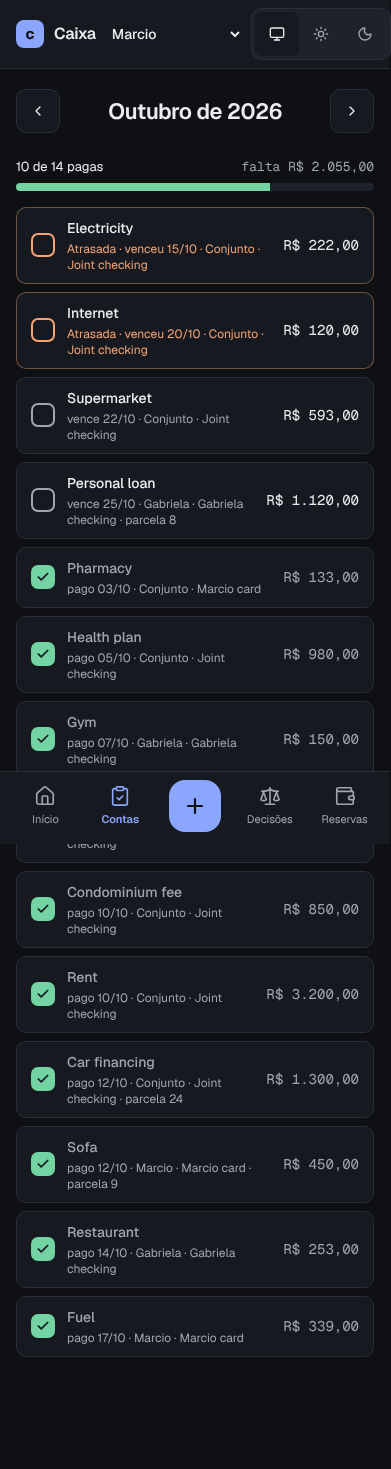
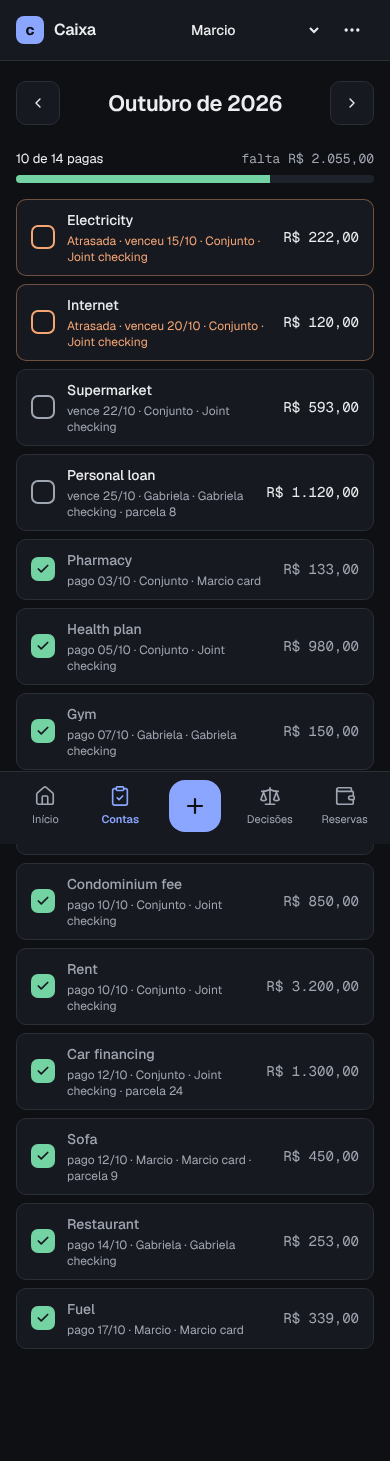
Q03: Mais menu in the mobile top bar reaches Lançamentos, Atividade and the theme switch
Claude-Session: https://claude.ai/code/session_01Behsygz4kyrBLoxpjjWtEd

diff --git a/web/src/shell/more-menu.tsx b/web/src/shell/more-menu.tsx
@@ -1,0 +1,55 @@
+import { Link } from '@tanstack/react-router'
+import { Ellipsis } from 'lucide-react'
+import { useEffect, useId, useRef, useState } from 'react'
+import { Button } from '../components/ui/button.tsx'
+import { ThemeSwitch } from '../theme/theme-switch.tsx'
+import { screens } from './nav.ts'
+
+const extras = screens.filter(({ tab }) => !tab)
+
+export const MoreMenu = () => {
+  const id = useId()
+  const [open, setOpen] = useState(false)
+  const root = useRef<HTMLDivElement>(null)
+  const toggle = useRef<HTMLButtonElement>(null)
+
+  useEffect(() => {
+    if (!open) return
+    const outside = (event: PointerEvent) => {
+      if (!root.current?.contains(event.target as Node)) setOpen(false)
+    }
+    const dismiss = (event: KeyboardEvent) => {
+      if (event.key !== 'Escape') return
+      setOpen(false)
+      toggle.current?.focus()
+    }
+    document.addEventListener('pointerdown', outside)
+    document.addEventListener('keydown', dismiss)
+    return () => {
+      document.removeEventListener('pointerdown', outside)
+      document.removeEventListener('keydown', dismiss)
+    }
+  }, [open])
+
+  return (
+    <div ref={root} className="relative">
+      <Button ref={toggle} variant="ghost" size="icon" className="aria-expanded:bg-sunken" aria-label="Mais" aria-expanded={open} aria-controls={open ? id : undefined} onClick={() => setOpen(!open)}>
+        <Ellipsis aria-hidden="true" className="size-5" />
+      </Button>
+      {open && (
+        <div id={id} className="absolute top-full right-0 z-20 mt-2 flex w-60 flex-col gap-3 rounded-card border bg-surface p-3">
+          <nav aria-label="Mais telas" className="flex flex-col gap-1">
+            {extras.map(({ path, title }) => (
+              <Link key={path} to={path} activeOptions={{ exact: true }} onClick={() => setOpen(false)} className="flex min-h-11 items-center rounded-control px-2.5 text-text data-[status=active]:bg-accent-soft data-[status=active]:font-semibold data-[status=active]:text-accent">
+                {title}
+              </Link>
+            ))}
+          </nav>
+          <div className="border-t pt-3">
+            <ThemeSwitch />
+          </div>
+        </div>
+      )}
+    </div>
+  )
+}

diff --git a/web/src/app.test.tsx b/web/src/app.test.tsx
@@ -90,3 +90,39 @@ test('answers unknown paths with a not found page', async () => {
   start('/nada')
   expect(await screen.findByText('Página não encontrada')).toBeTruthy()
 })
+
+test('every screen is a tab or an entry of the Mais menu', async () => {
+  const history = start('/decisoes?month=2026-10')
+  await screen.findByRole('heading', { level: 1, name: 'Decisões' })
+  const tabBar = screen.getAllByRole('navigation', { name: 'Principal' })[1] as HTMLElement
+  expect(within(tabBar).getAllByRole('link')).toHaveLength(5)
+  const more = screen.getByRole('button', { name: 'Mais' })
+  expect(more.getAttribute('aria-expanded')).toBe('false')
+  await userEvent.click(more)
+  const menu = screen.getByRole('navigation', { name: 'Mais telas' })
+  expect(
+    within(menu)
+      .getAllByRole('link')
+      .map((link) => link.textContent),
+  ).toEqual(['Lançamentos', 'Atividade'])
+  expect(screen.getAllByRole('group', { name: 'Tema' })).toHaveLength(2)
+  const reachable = [...within(tabBar).getAllByRole('link'), ...within(menu).getAllByRole('link')].map((link) => new URL(link.getAttribute('href') ?? '', 'http://x').pathname)
+  expect([...new Set(reachable)].sort()).toEqual(['/', '/atividade', '/contas', '/decisoes', '/lancamentos', '/patrimonio'])
+  await userEvent.click(within(menu).getByRole('link', { name: 'Atividade' }))
+  await screen.findByRole('heading', { level: 1, name: 'Atividade' })
+  expect(history.location.search).toContain('month=2026-10')
+  expect(screen.queryByRole('navigation', { name: 'Mais telas' })).toBeNull()
+})
+
+test('the Mais menu closes on Escape and on a tap outside', async () => {
+  start('/decisoes')
+  await screen.findByRole('heading', { level: 1, name: 'Decisões' })
+  const more = screen.getByRole('button', { name: 'Mais' })
+  await userEvent.click(more)
+  await userEvent.keyboard('{Escape}')
+  expect(screen.queryByRole('navigation', { name: 'Mais telas' })).toBeNull()
+  expect(document.activeElement).toBe(more)
+  await userEvent.click(more)
+  await userEvent.click(screen.getByRole('heading', { level: 1, name: 'Decisões' }))
+  expect(screen.queryByRole('navigation', { name: 'Mais telas' })).toBeNull()
+})

diff --git a/web/e2e/more.spec.ts b/web/e2e/more.spec.ts
@@ -1,0 +1,23 @@
+import AxeBuilder from '@axe-core/playwright'
+import { expect, test } from '@playwright/test'
+
+for (const theme of ['light', 'dark'] as const)
+  test(`more menu reaches every extra screen in two taps 390 ${theme}`, async ({ browser }) => {
+    const context = await browser.newContext({ viewport: { width: 390, height: 844 }, colorScheme: theme, locale: 'pt-BR', timezoneId: 'America/Sao_Paulo' })
+    await context.addInitScript(() => localStorage.setItem('finance.member', 'Marcio'))
+    const page = await context.newPage()
+    await page.goto('/decisoes')
+    await expect(page.getByRole('heading', { level: 1, name: 'Decisões' })).toBeVisible()
+    await expect(page.locator('[aria-busy="true"]')).toHaveCount(0)
+    await page.getByRole('button', { name: 'Mais' }).click()
+    const menu = page.getByRole('navigation', { name: 'Mais telas' })
+    await expect(menu.getByRole('link')).toHaveText(['Lançamentos', 'Atividade'])
+    const { violations } = await new AxeBuilder({ page }).withTags(['wcag2a', 'wcag2aa', 'wcag21a', 'wcag21aa']).analyze()
+    expect(violations.map(({ id, nodes }) => ({ id, targets: nodes.map((node) => node.target.join(' ')) }))).toEqual([])
+    await page.evaluate(() => document.fonts.ready)
+    await page.screenshot({ path: `screenshots/more-390-${theme}.png` })
+    await menu.getByRole('link', { name: 'Atividade' }).click()
+    await expect(page.getByRole('heading', { level: 1, name: 'Atividade' })).toBeVisible()
+    await expect(menu).toHaveCount(0)
+    await context.close()
+  })

diff --git a/web/src/shell/top-bar.tsx b/web/src/shell/top-bar.tsx
@@ -1,13 +1,13 @@
-import { ThemeSwitch } from '../theme/theme-switch.tsx'
 import { Brand } from './brand.tsx'
 import { IdentityPicker } from './identity-picker.tsx'
+import { MoreMenu } from './more-menu.tsx'
 
 export const TopBar = () => (
   <header className="flex items-center gap-3 border-b bg-surface px-4 py-2 md:hidden">
     <Brand />
     <div className="ml-auto flex items-center gap-2">
       <IdentityPicker compact />
-      <ThemeSwitch />
+      <MoreMenu />
     </div>
   </header>
 )

diff --git a/MEMORY.md b/MEMORY.md
@@ -4,13 +4,12 @@
 
 - No `add_repo`/`register_repo_root` tools in these runs (ToolSearch finds neither). The repo already exists at /home/claude/finance: `git fetch origin && git checkout -B poc origin/poc`
 - Node 22 is preinstalled: `npm i -g node@24` then `hash -r` (about a minute; 24.22.0 on 2026-10-20)
-- PostgreSQL 16: `pg_ctlcluster 16 main start`, then `su postgres -c "psql -c \"alter user postgres password 'local'\""`, then `cp .env.example .env` (gitignored)
-- Run setup commands one per Bash call; long chained commands were refused by the classifier
-- `npm ci` then `npm run db:reset` and `npm run db:seed`; baseline is 141 node tests plus 107 web (Vitest) tests plus 58 Playwright; seed has 189 entries and `db:seed` also plants 4 decisions (`seedDecisions`, not in `seed()`, L73)
+- Run setup commands one per Bash call. PostgreSQL 16: `pg_ctlcluster 16 main start`, then `su postgres -c "psql -c \"alter user postgres password 'local'\""`, then `cp .env.example .env` (gitignored)
+- `npm ci` then `npm run db:reset` and `npm run db:seed`; baseline is 141 node tests plus 109 web (Vitest) tests plus 60 Playwright; seed has 189 entries and `db:seed` also plants 4 decisions (`seedDecisions`, not in `seed()`, L73)
 - `curl` to local servers needs `--noproxy '*'` (the agent proxy answers 404 otherwise); stop servers by pid, `pkill -f` matched the calling shell and killed the call
 - Web deps install with `npm i -w web ...` (add `-S` for runtime deps: a first `-w` install put react as a peer only); root scripts forwarding to the workspace need a trailing `--` or npm swallows flags
 - Single test file: `timeout 200 node --env-file=.env --test test/mcp/demo.test.ts` (capture to a log file and read the tail; piping through grep printed nothing once)
-- Use `./node_modules/.bin/biome`, not `npx biome` (npx stalled 3 minutes). `tsconfig` has `erasableSyntaxOnly` (no parameter properties, enums, namespaces). `biome check --write <paths>` fixes import order; `biome ci` rejects `!` non-null assertions in tests (use `assert.ok` to narrow); check exit codes from a log file, never through `| tail` (a run once pushed with `biome ci` red)
+- Use `./node_modules/.bin/biome`, not `npx biome` (npx stalled 3 minutes). `tsconfig` has `erasableSyntaxOnly` (no parameter properties, enums, namespaces). `biome check --write <paths>` fixes import order; `biome ci` rejects `!` non-null assertions in tests (use `assert.ok` to narrow); check exit codes from a log file, never through `| tail` (a run once pushed with `biome ci` red); `noShadowRestrictedNames` rejects locals named like globals (`escape`)
 
 ## Decisions taken so far (for the author to review)
 
@@ -42,6 +41,7 @@
 - W03: settlement counts only paid joint expenses on member-owned accounts (Needs author); the seed has none, so split is empty over the seed (L44). Audit `next` is a string cursor (bigint would become money via `toJson`); counts ignore the author filter and cursor so filter chips keep their numbers
 - W11: `/atividade` in `web/src/activity/` (`describe.ts` shared with the overview card); chips count from a separate `['audit','counts']` query (`limit=1`, unscoped) because API counts are scoped by `member`; member chip = `author=member&member=X`; timeline is `useInfiniteQuery` keyed `['audit','timeline',filter]`. `memberCounts` in `GET /api/audit`. Tests avoid the clock with 2025 dates and regex day names
 - W12c budget (`npx playwright test -g budget`, preview gzips, SW blocked): overview first load 390 = 129 kB JS gzip, 1440 = 211 kB, fonts 53 kB, FCP/LCP about 0.3–0.4 s locally; precache 30 entries / 964 KiB (latin Geist only via `globPatterns`). Limits live at the top of `web/e2e/budget.spec.ts`; the build has no visualizer, use `vite build --sourcemap --outDir /tmp/x` and sum `sourcesContent` per package
+- Q03: mobile top bar is brand, compact identity picker and the `MoreMenu` (Mais) disclosure; the menu lists `screens` without `tab` and holds the theme switch (jsdom renders it twice: sidebar plus menu). Menu e2e only: `npx playwright test e2e/more.spec.ts`; a top bar change rewrites every `-390-` PNG, keep those and revert the 1440 ones
 - W10: `/decisoes` in `web/src/decisions/`; pending list reuses `useProposedDecisions` (key `['decisions','proposed']`), history is `['decisions','history']` (status all, filtered in the browser, L75); answers use mutation key `decision-reply` and invalidate `decisions` and `audit`. Mobile shell note: top bar (brand, identity, theme) is not in the mockups; `main` has `pb-28` for the fixed tab bar
 
 ## Notes for next items
@@ -55,6 +55,6 @@
 
 ## Status
 
-- Tests: 141 node, 107 web, 58 Playwright after Q02; `npm run check` green. `test/docs/readme.test.ts` fails when a committed screenshot is missing from the README or a README link breaks: a new screenshot needs a README row
-- Author promoted Q01–Q08 (QA findings) and I01–I08 (ADR-009 import) to Next; Q01 and Q02 done 2026-10-22; next is Q03 (Mais tab). A full Playwright run rewrites every screenshot (dates drift with the real day): keep only the screens the item touched, `git checkout` the rest
+- Tests: 141 node, 109 web, 60 Playwright after Q03; `npm run check` green. `test/docs/readme.test.ts` fails when a committed screenshot is missing from the README or a README link breaks: a new screenshot needs a README row
+- Author promoted Q01–Q08 (QA findings) and I01–I08 (ADR-009 import) to Next; Q01–Q03 done 2026-10-22; next is Q04 (activity text names the record). A full Playwright run rewrites every screenshot (dates drift with the real day): keep only the screens the item touched, `git checkout` the rest
 - Failing-test run streak: 0

diff --git a/BACKLOG.md b/BACKLOG.md
@@ -4,10 +4,9 @@ Ordered. The agent takes the first unblocked item under **Next**. Items marked *
 
 ## Next
 
-- **Q03 Mobile navigation**: on phones Lançamentos is reachable only through the + button and Atividade not at all. Add a "Mais" tab (or a menu in the top bar) listing Lançamentos, Atividade and the theme switch, keeping the tab bar at five targets. Done when every route is two taps away at 390 px
 - **Q04 Activity text names the record**: "Encerrou decisão" and "Confirmou uma decisão" do not say which; include the decision, entry or reserve title in every summary (the before/after rows carry it). Done when no summary is generic
 - **Q05 "Ver registro" opens the record**: today it links to the generic screen; link to the entry (lançamentos filtered or highlighted by id), the decision card, or the reserve. Done when the link lands on the item itself
-- **Q06 Mobile top bar edge**: the theme switch touches the right edge and the page is 391 px wide at 390; keep the 16 px gutter and no horizontal overflow (assert `scrollWidth <= innerWidth` in the e2e suite)
+- **Q06 Mobile top bar edge**: (Q03 moved the theme switch into the Mais menu, so the top bar now ends with the 44 px Mais button) the theme switch touched the right edge and the page is 391 px wide at 390; keep the 16 px gutter and no horizontal overflow (assert `scrollWidth <= innerWidth` in the e2e suite)
 - **Q07 Portuguese seed**: categories, accounts, descriptions, creditors, goals and decisions in the seed are English inside a pt-BR interface; rewrite the seed in Portuguese (Moradia, Alimentação, Conta conjunta, Energia, Aluguel…), regenerate screenshots and README. Done when the showcase screenshots have no English content
 - **Q08 Seed timeline**: every seeded audit row carries the seeding time, so Atividade shows everything at the same minute; write seed audit rows with timestamps that follow the seeded dates
 - **I01 Ingest converters (Python)**: package `ingest/` (Python 3.13, `pyproject.toml`, ruff, pytest, no comments) that turns xlsx, csv, json, xml, txt, ofx and pdf with a text layer into segments: tables (cell ranges; a messy sheet yields several blocks, detected by empty rows and columns), trees (paths with samples), text (passages). Each segment has an id, kind, source address (`sheet!A1:F30`, `$.path[3]`, page and line) and a bounded preview. `python -m ingest inspect <file>` prints segments as JSON. Fictional fixtures only. See `docs/adr-009-ai-assisted-import.md`
@@ -21,6 +20,7 @@ Ordered. The agent takes the first unblocked item under **Next**. Items marked *
 
 ## Later
 
+- **L98 Mais menu focus**: the Q03 menu closes on Escape, outside tap and link choice, but not when focus tabs out of it; close on `focusout` leaving the menu, and consider Recebimentos/Importar entries as screens are added (I07)
 - **I09 Images and scanned pdf** (phase 2 of ADR-009): needs image tool results in `service-agent`; then receipts and scanned statements as image segments, always reviewed
 - **I10 Monthly statements** (phase 3): the same pipeline with duplicate detection against the ledger and reconciliation by statement balance
 
@@ -127,6 +127,8 @@ Ordered. The agent takes the first unblocked item under **Next**. Items marked *
 - **F10b layout choices**: built as the default: the installment column is optional (8th header cell, fixed lines only); a `total` row (kind `total`, amount = income minus expenses of the sheet) is checked against the lines when present; a month can be imported once (refused when it already holds import entries). Confirm these before F10c or any replace flow
 
 ## Done
+
+- **Q03 Mobile navigation** (2026-10-22): "Mais" button in the mobile top bar (`web/src/shell/more-menu.tsx`) opens a menu with every screen that has no tab (Lançamentos, Atividade) plus the theme switch; tab bar stays at five; Vitest checks tabs plus menu cover all routes, e2e `more.spec.ts` (axe with menu open, two taps to Atividade, `more-390-*.png`)
 
 - **Q02 Income wording**: income states read "Recebida", "A receber" and "Recebimento atrasado" (one `stateLabels` table by direction in `entries/model.ts`); the open filter chip reads "A receber e atrasadas" when Receitas is chosen; activity says "Marcou X como recebida" for income (audit `after.direction`). Overview and Contas list expenses only, so no income row shows Pendente or Atrasada. 1 new web test plus assertions (141 node, 107 web, 58 e2e); entries screenshots refreshed
 - **Q01 Quick add of something already paid**: quick add gains a Data field (defaults to today in the current month, else the 1st; limited to the shown month) and a "Já pago" / "Já recebido" checkbox, on when the date is today or earlier and reset when the date changes; a future date marked paid is refused in the form; the body sends `paid_on` = date. The form row now wraps (Data, checkbox and Lançar on a second line at 1440). E2E adds "Farmácia R$ 84,90" today and finds it paid in Contas. 4 web tests (141 node, 106 web, 58 e2e); entries screenshots refreshed

diff --git a/README.md b/README.md
@@ -27,6 +27,7 @@ Household finance ledger with a Claude connector. Two members, every change audi
 | Decisões | <img src="web/screenshots/decisions-1440-light.png" alt="Decisões, desktop, light" width="360"> | <img src="web/screenshots/decisions-1440-dark.png" alt="Decisões, desktop, dark" width="360"> | <img src="web/screenshots/decisions-390-light.png" alt="Decisões, phone, light" width="120"> | <img src="web/screenshots/decisions-390-dark.png" alt="Decisões, phone, dark" width="120"> |
 | Atividade | <img src="web/screenshots/activity-1440-light.png" alt="Atividade, desktop, light" width="360"> | <img src="web/screenshots/activity-1440-dark.png" alt="Atividade, desktop, dark" width="360"> | <img src="web/screenshots/activity-390-light.png" alt="Atividade, phone, light" width="120"> | <img src="web/screenshots/activity-390-dark.png" alt="Atividade, phone, dark" width="120"> |
 | Undo after a payment mark | <img src="web/screenshots/bills-toast-1440-light.png" alt="Payment undo toast, desktop, light" width="360"> | <img src="web/screenshots/bills-toast-1440-dark.png" alt="Payment undo toast, desktop, dark" width="360"> | <img src="web/screenshots/bills-toast-390-light.png" alt="Payment undo toast, phone, light" width="120"> | <img src="web/screenshots/bills-toast-390-dark.png" alt="Payment undo toast, phone, dark" width="120"> |
+| Mais menu (phone only) | | | <img src="web/screenshots/more-390-light.png" alt="Mais menu, phone, light" width="120"> | <img src="web/screenshots/more-390-dark.png" alt="Mais menu, phone, dark" width="120"> |
 
 </details>
 
